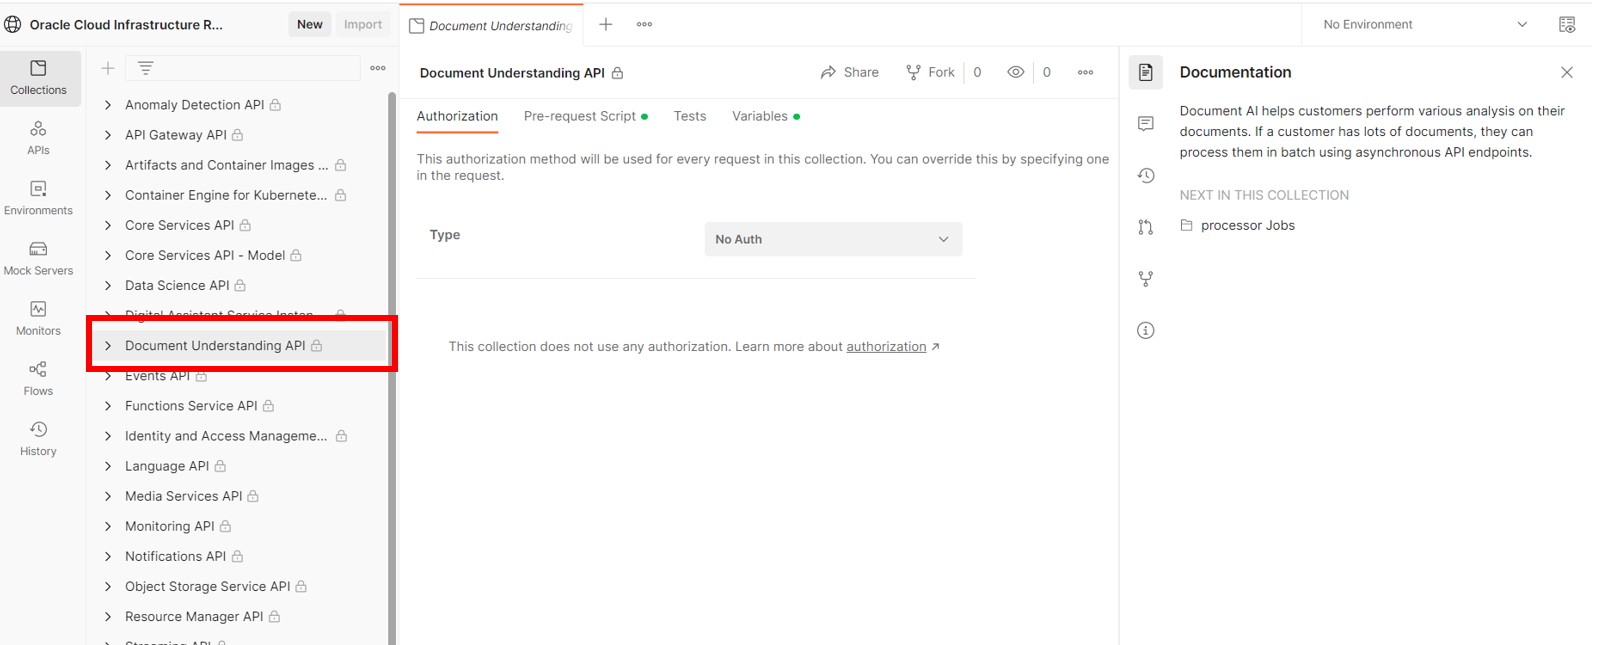
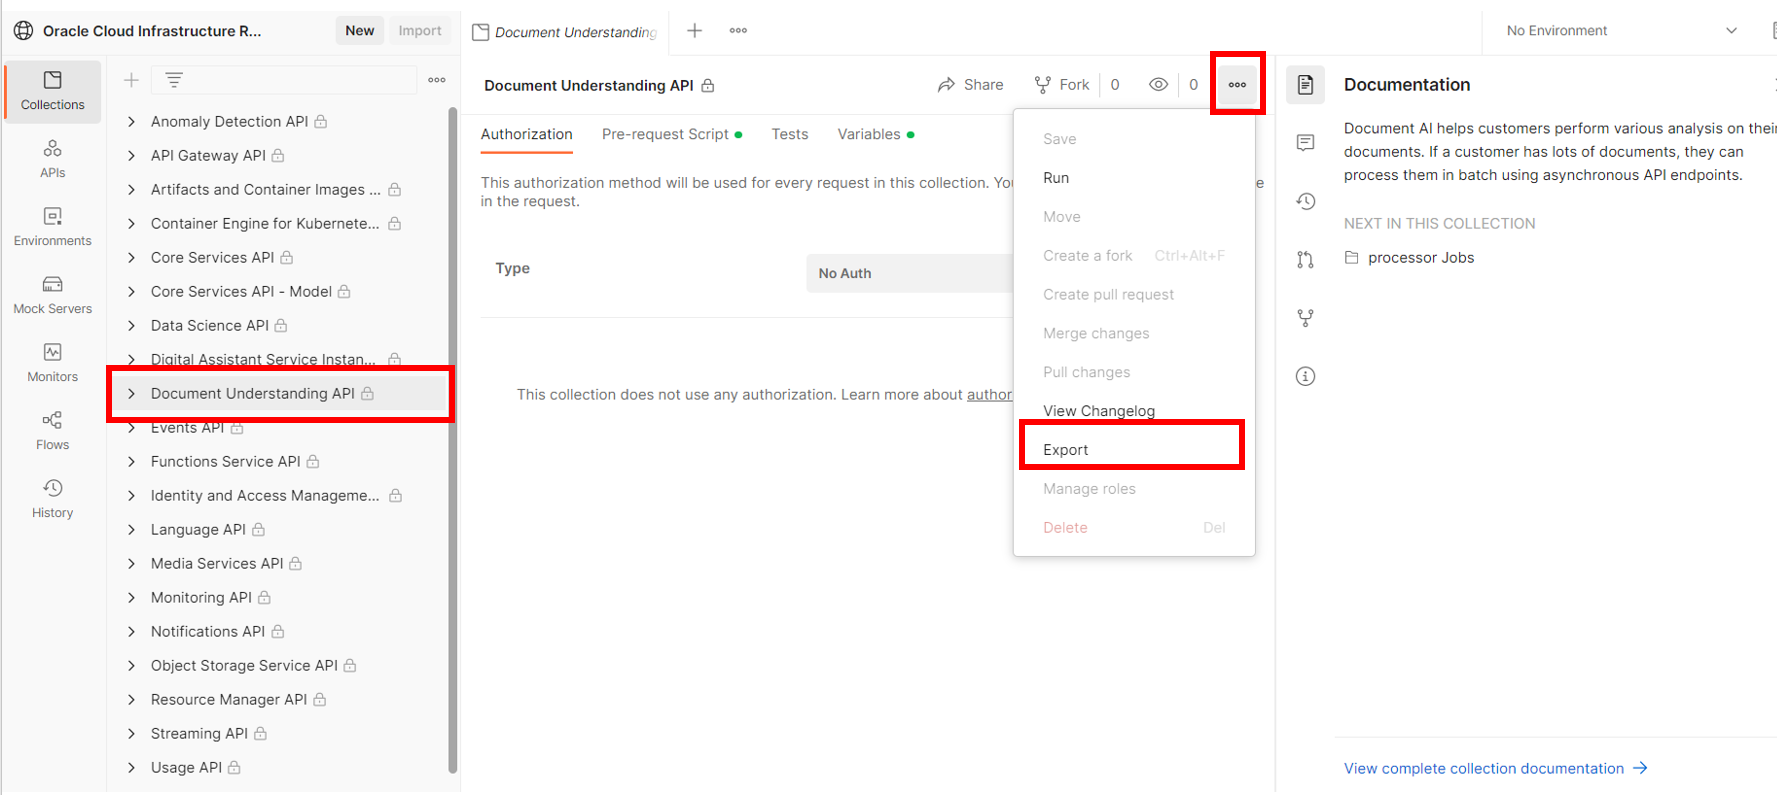
update screenshots

diff --git a/labs/ai-document-understanding/workshops/3-postman/3-postman.md b/labs/ai-document-understanding/workshops/3-postman/3-postman.md
@@ -18,9 +18,6 @@ We have put together a Postman Collection to help you get started with calling t
 2. Use this [link](https://www.postman.com/oracledevs/workspace/oracle-cloud-infrastructure-rest-apis/overview) to download the **Document Understanding API Collection**. The link opens Postman on the web. Select **Collections** on the left side of the screen. Hover over *Document Understanding Service API* and click the 3 dots to open the popup menu. Select **Export** to export the collection file and save it to your local computer.
   ![](./images/documentcollection.png)
 
-
-  ![](./images/postman-exportoci.png)
-
 3. Use this [link](https://www.postman.com/oracledevs/workspace/oracle-cloud-infrastructure-rest-apis/environment/29850-eab82db8-e9a1-4200-9f39-de10b4a0f371) to download the **OCI Credentials Environment**. The link opens Postman on the web. Select **Environmments** on the left side of the screen then select **OCI Credentials**. One the right side of the screen find the 3 dots and click it to open a popup menu. On the menu click **Export** to export the credentials file and save it to your local computer.
   ![](./images/postman-exportoci-credentials.png)
 
